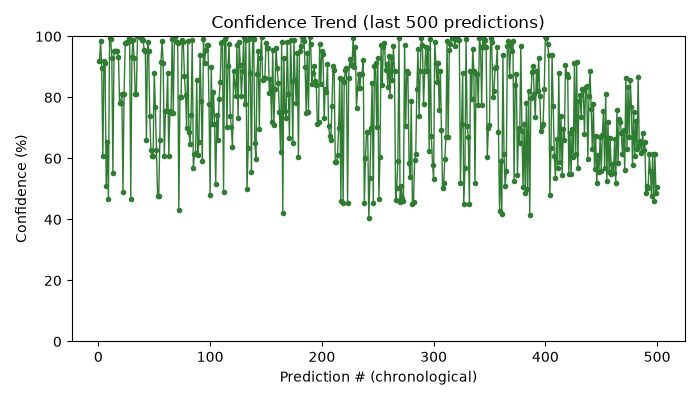
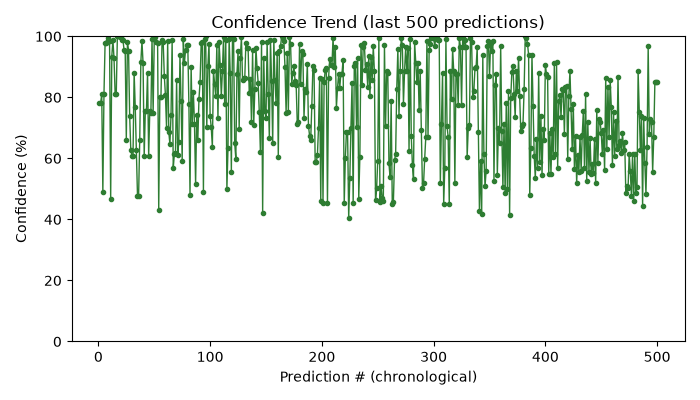
fix: single fruit upload analysis validation not working with the new dependecy clip

Changed region(s): [[0.12, 0.09, 0.96, 0.57]]

diff --git a/README.md b/README.md
@@ -160,6 +160,21 @@ which `requirements.txt` installs directly from the official Ultralytics
 GitHub repository. Git and network access are therefore required during the
 first dependency installation.
 
+> **Do not `pip install clip`.** The plain `clip` package on PyPI is an
+> unrelated CLI clipboard manager, not OpenAI/Ultralytics CLIP — it has no
+> `load()` or `tokenize()`. Both packages install as the same top-level
+> `clip` module, so whichever one lands last in `site-packages` silently
+> wins, and pulling in the wrong one produces
+> `module 'clip' has no attribute 'load'` at runtime. Only
+> `git+https://github.com/ultralytics/CLIP.git` (already pinned above)
+> should ever be installed. If you hit that error:
+> ```bash
+> pip uninstall clip
+> pip install git+https://github.com/ultralytics/CLIP.git
+> ```
+> Then restart the Flask dev server — it caches the import in memory, so a
+> package swap alone won't fix an already-running process.
+
 ### Dataset Setup
 Download the base dataset from Kaggle: https://www.kaggle.com/datasets/leftin/fruit-ripeness-unripe-ripe-and-rotten
 
